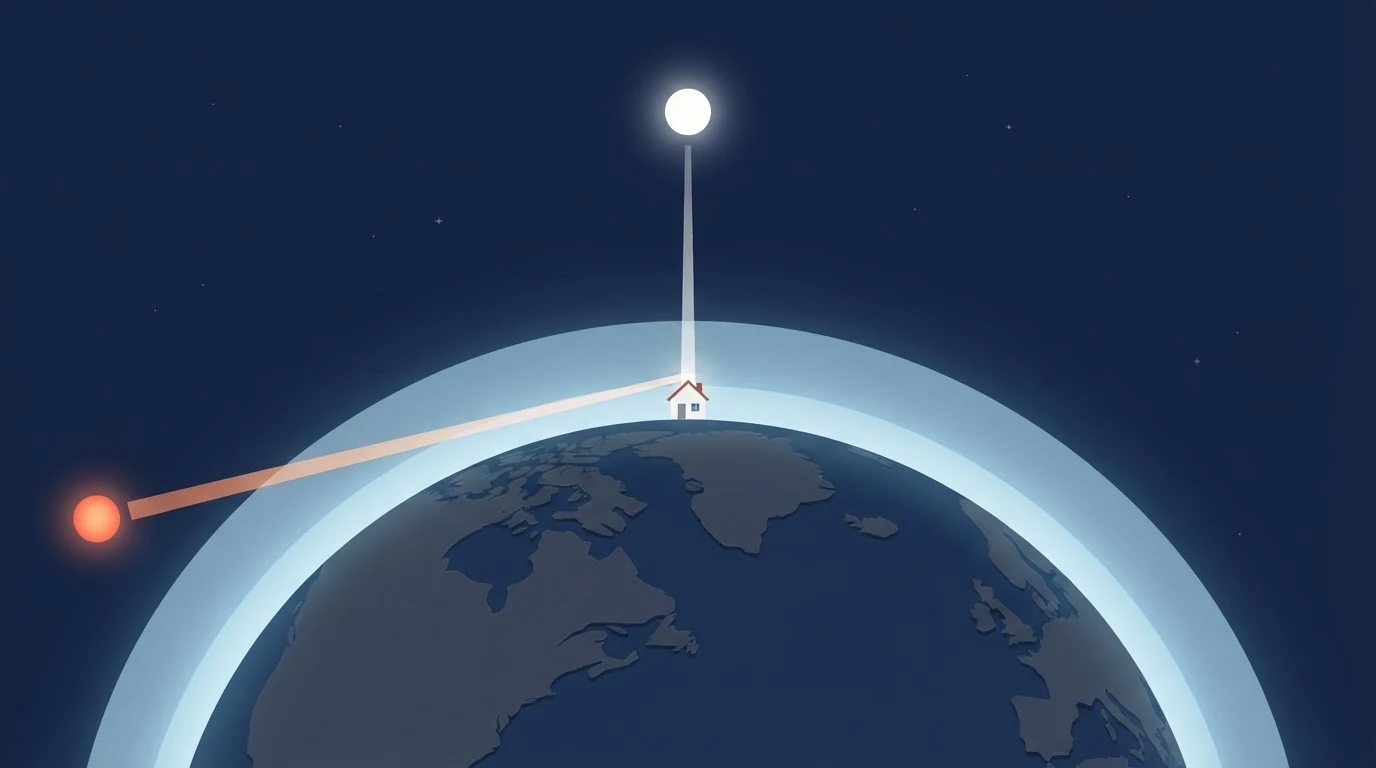
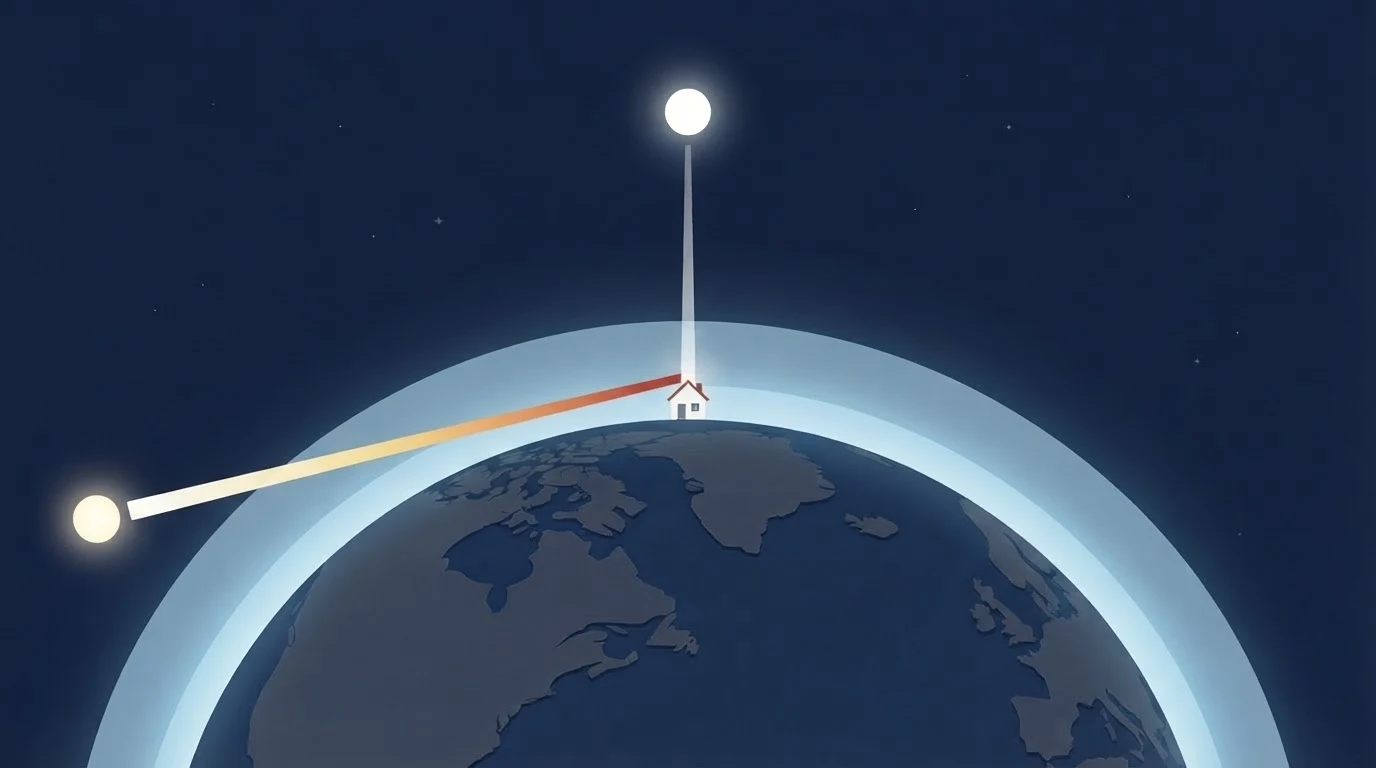
v209 노을 편 그림 고침: 빛은 흰색에서 출발해 공기를 지나며 붉어짐, 흩어지는 건 파랑만
Claude-Session: https://claude.ai/code/session_01BERWee5SW6nSaidm893bbT

Changed region(s): [[0.0312, 0.4688, 0.5, 0.75]]

diff --git a/gunggeum/pieces/ep/40.js b/gunggeum/pieces/ep/40.js
@@ -24,10 +24,10 @@ EPX[40]={day:'과학',topic:'노을',cat:'빛과 색',field:'과학',frame:'v2',
     p=P(97,517);tx(g2,p[0],p[1]+64,'저녁 해','v28','middle');p=P(380,420);tx(g2,p[0],p[1]-36,'길게','v60','middle');
     return i=>show(i?g2:g1);}},
   {k:'파랑은 흩어져',h:'긴 길에서<br>파란빛은 흩어진다',b:'파란빛은 공기에 잘 튕겨서 <em>가는 길에 흩어져.</em>',steps:['햇빛 보내기'],
-   draw(S){const X=640,Y=236,W=864,H=W*420/1110,k=W/1110,id='c40s1';
+   draw(S){const X=640,Y=236,W=864,H=W*420/1376,k=W/1376,id='c40s1';
     const cp=el('clipPath',{id},el('defs',{},S)),cr=el('rect',{x:X,y:Y-40,width:W*.14,height:H+80},cp);
     el('g',{'clip-path':`url(#${id})`},S).appendChild(el('image',{href:'art/40-scatter.webp',x:X,y:Y,width:W,height:H,mask:fea(S,'m40b',X,Y,W,H,22)},S));
-    const cap=grp(S,0);tx(cap,X+560*k,Y-24,'파랑은 흩어져','v28','middle');tx(cap,X+W,Y+H+48,'빨강·주황은 끝까지','v28','end');
+    const cap=grp(S,0);tx(cap,X+600*k,Y-24,'파랑은 흩어져','v28','middle');tx(cap,X+W,Y+H+48,'빨강·주황은 끝까지','v28','end');
     return ()=>play(1800,e=>cr.setAttribute('width',(W*(.14+.86*e)).toFixed(1)),()=>show(cap));}},
   {k:'남은 빛의 색',h:'남은 빨강·노랑이<br>노을을 칠한다',b:'그래서 저녁 하늘과 해가 <em>붉게</em> 보여.',steps:['저녁 하늘 보기'],
    draw(S){const X=640,Y=170,W=864,H=482;
